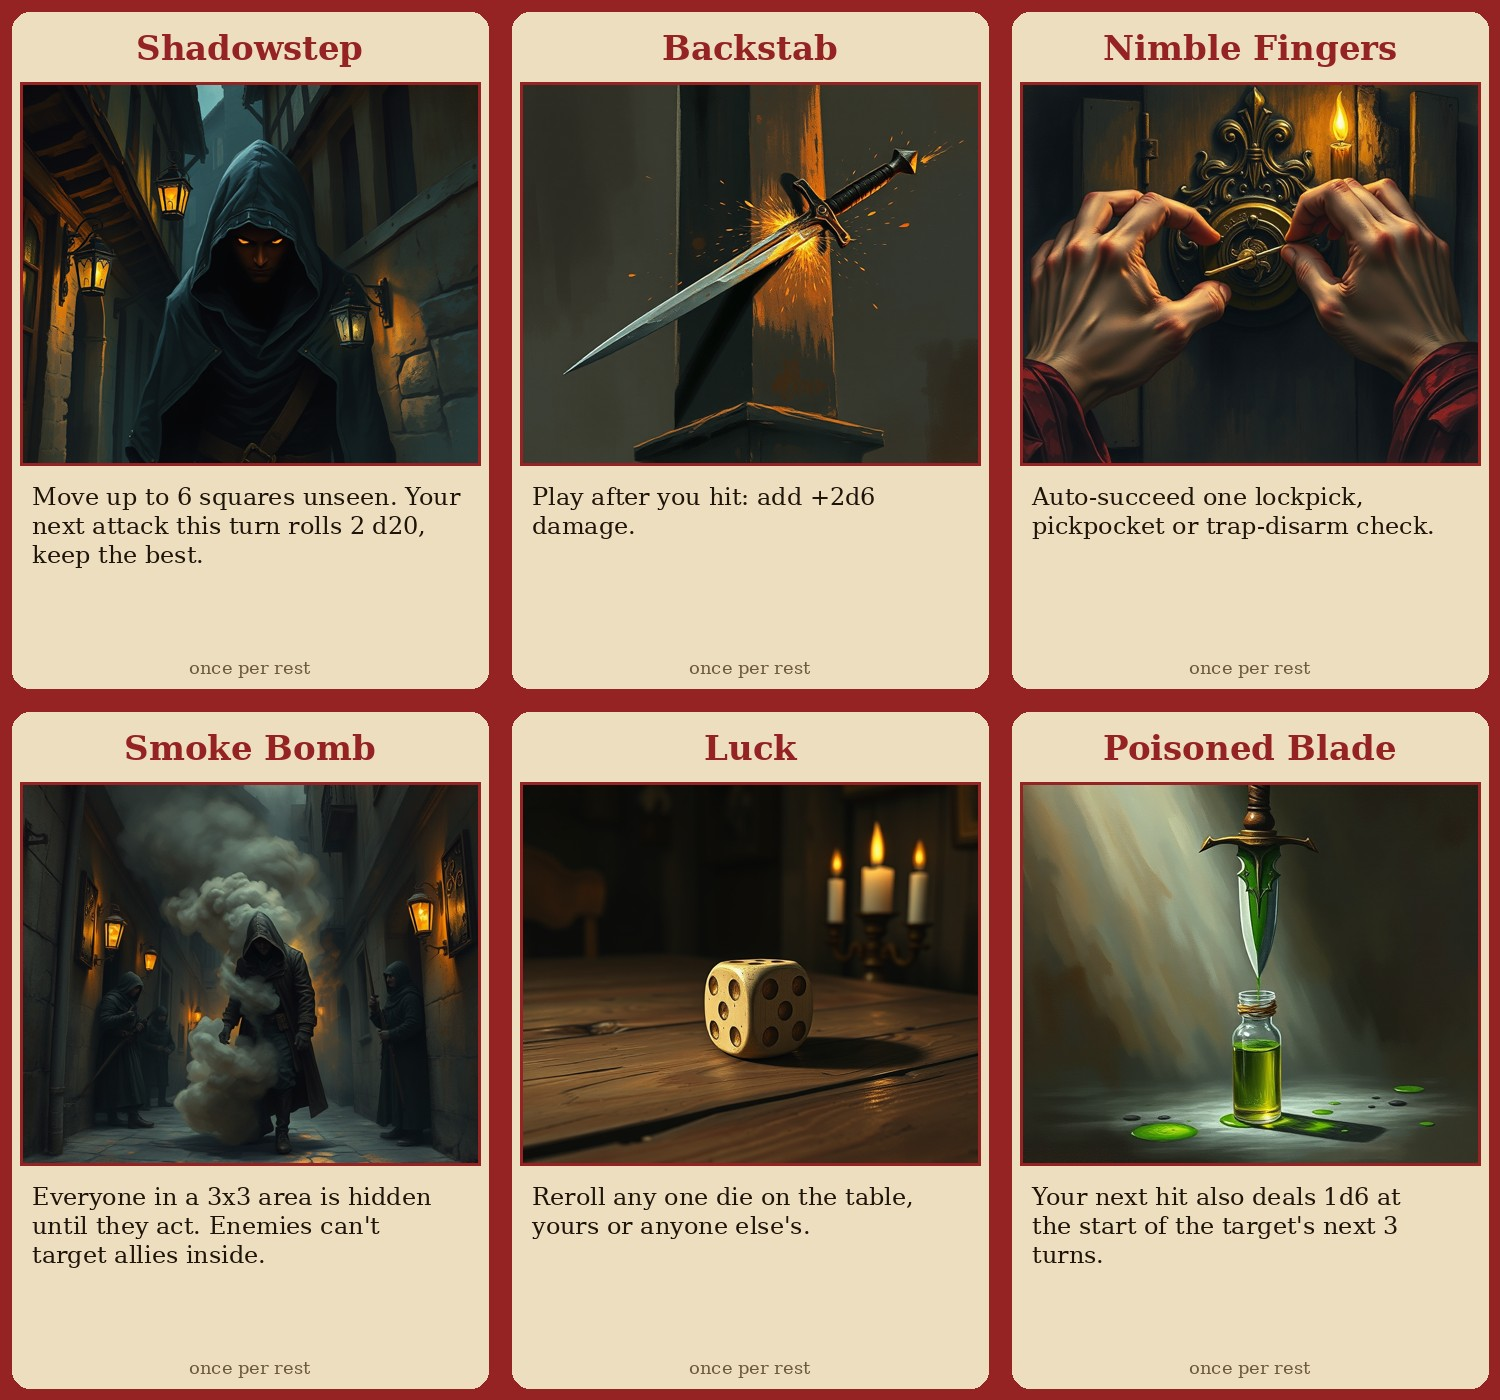
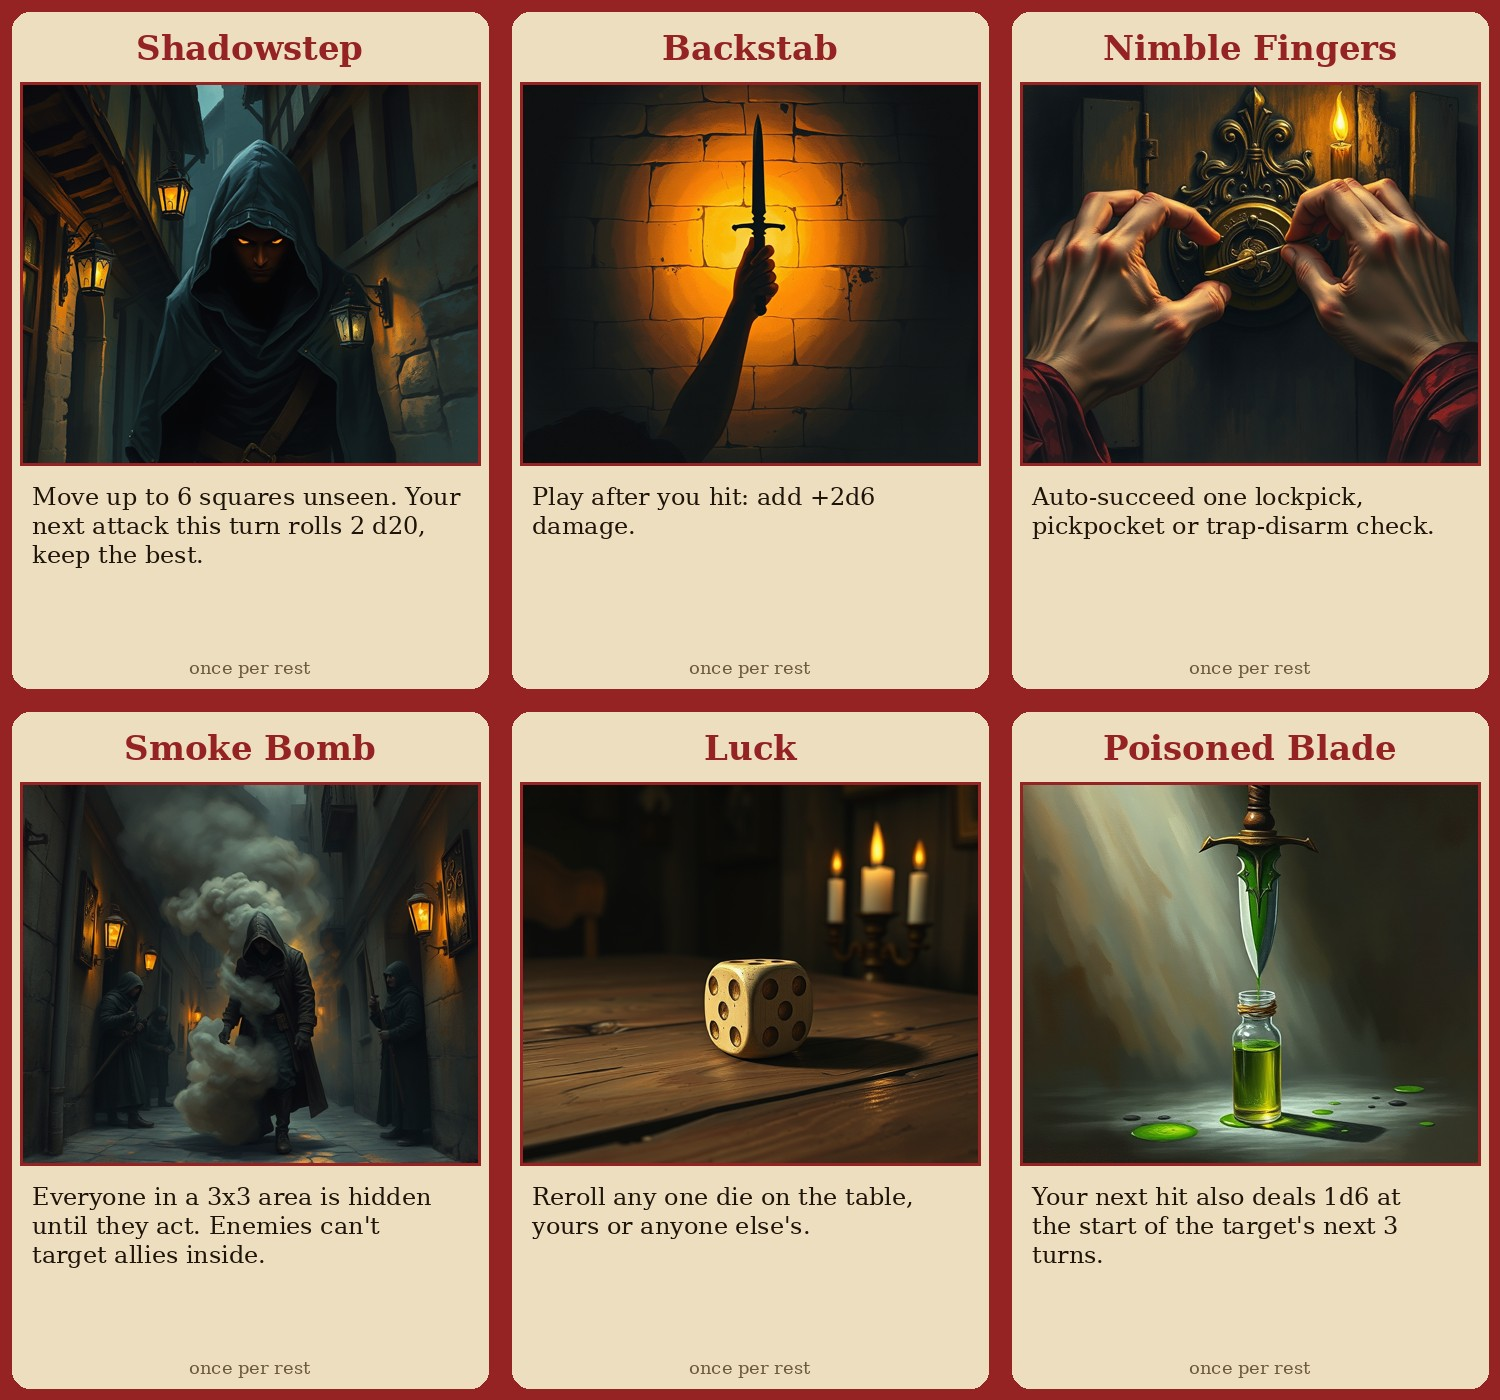
Backstab art: a raised dagger's shadow on a torchlit wall

Changed region(s): [[0.3373, 0.0614, 0.6747, 0.3379]]

diff --git a/content.py b/content.py
@@ -40,7 +40,7 @@ HEROES = [
              ("Shadowstep", "Move up to 6 squares unseen. Your next attack this turn rolls 2 d20, keep the best.",
               "a hooded rogue melting into deep shadow in a narrow medieval alley between timber-framed houses, lantern light, only glowing eyes visible"),
              ("Backstab", "Play after you hit: add +2d6 damage.",
-              "a city guard hunched over in pain with a dagger stuck in his back, dark shadows closing in around him, dim alley, dramatic rim light"),
+              "the shadow of a raised hand gripping a dagger, cast large on a torchlit stone wall"),
              ("Nimble Fingers", "Auto-succeed one lockpick, pickpocket or trap-disarm check.",
               "delicate hands picking an ornate lock with thin tools, candlelight"),
              ("Smoke Bomb", "Everyone in a 3x3 area is hidden until they act. Enemies can't target allies inside.",
